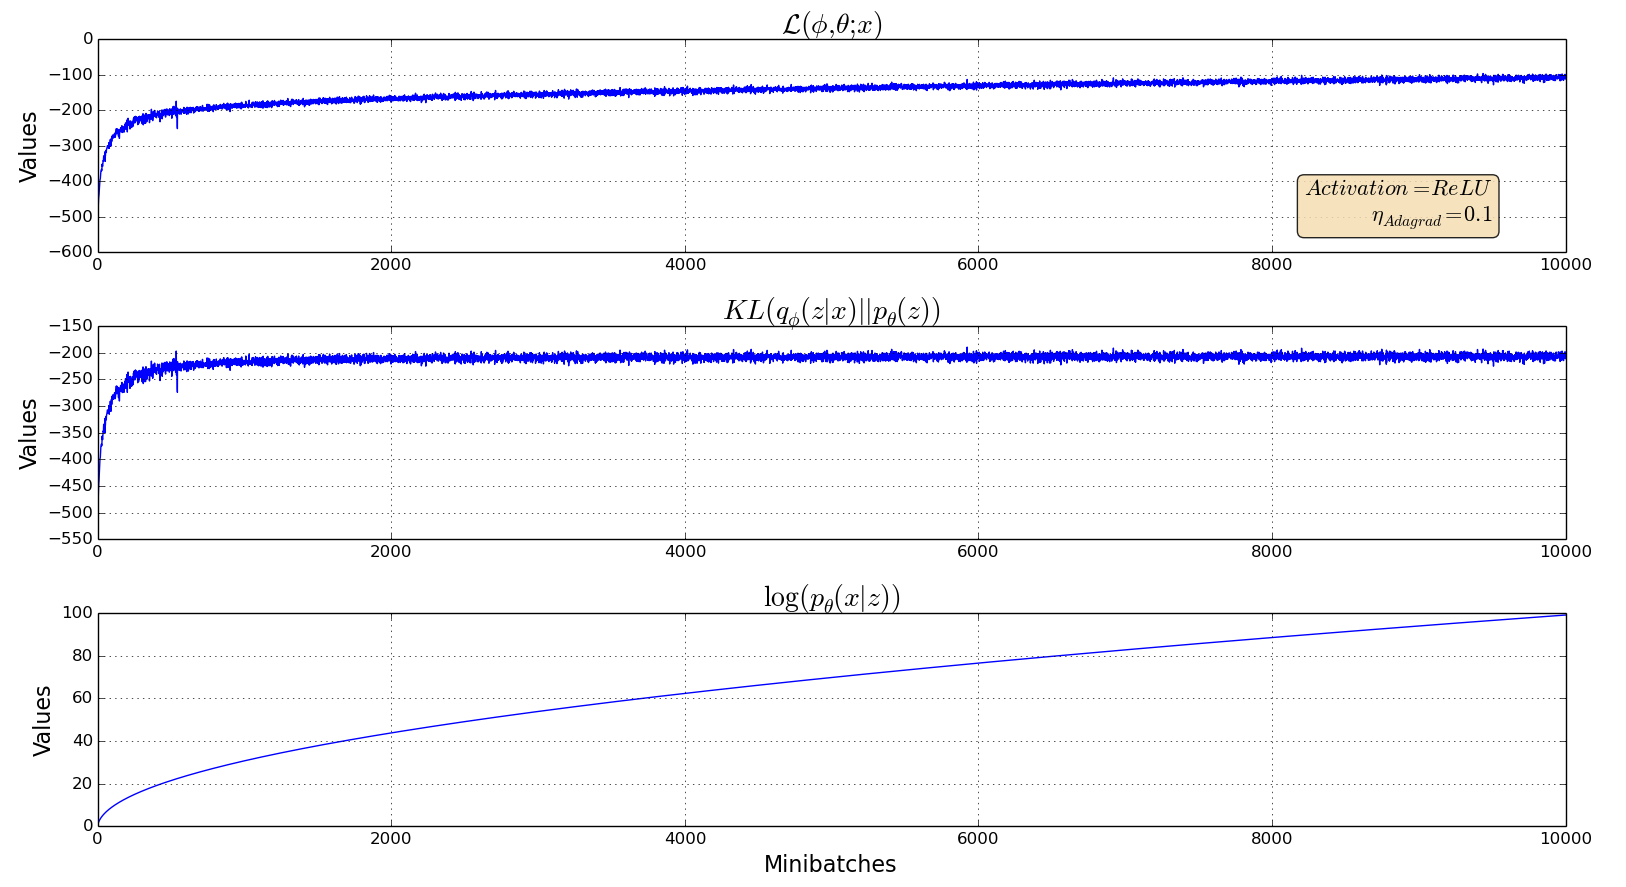
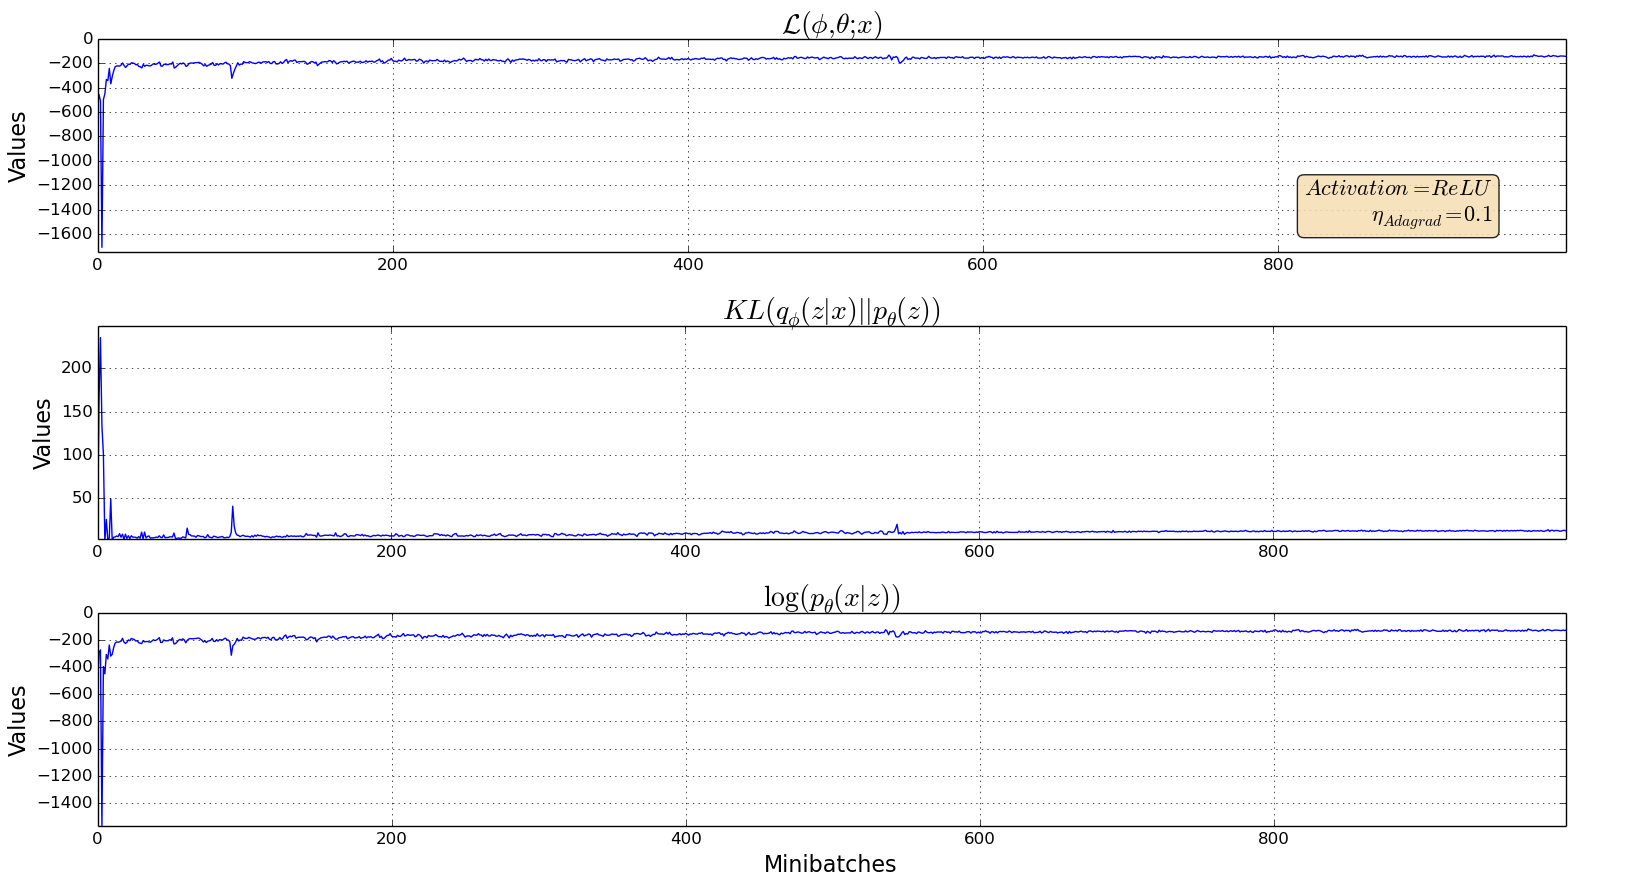
VAE v1.0 works + cleaner parameterization via configs

diff --git a/vae.py b/vae.py
@@ -8,23 +8,19 @@ __author__ = "shraman-rc"
 import tensorflow as tf
 import numpy as np
 import click as cl
+import yaml
 
 from nets import BernoulliMLP, GaussianMLP
 import likelihoods as lh
 import vis
 
-MNIST_FLAT_DIM = 784    # Flattened dimension of MNIST images, 'x'
-HIDDEN_LAYER_ENC = 500
-HIDDEN_LAYER_DEC = 200
+CONFIG = 'config/nn_config.yaml'
 
-
-# Experimental Parameters
-M = 100         # minibatch size
-L = 1           # MCE samples
-J = 10          # Dimensionality of latent space, 'z'
-T = 5000        # Training iterations
-ADG_RATE = 0.1 # Adagrad global learning rate (chosen from
-                #   {0.01,0.02,0.1} -- cf. [1]: Section 5)
+try:
+    config = yaml.load(file(CONFIG, 'r'))
+    print config
+except yaml.YAMLError, exc:
+    cl.secho("Error in configuration file: {}".format(exc), fg='red')
 
 # Inputs - mini-batches of (flattened) images
 x_batch = tf.placeholder(tf.float32, shape=[M, MNIST_FLAT_DIM])
@@ -37,57 +33,16 @@ log_var_q = encoder.out_params.log_var
 var_q = tf.exp(log_var_q)
 sigma_q = tf.sqrt(var_q)
 # Latent space samples w/ reparameterization (z = g(ep,x); ep ~ p(ep))
-#   This outsources randomness to auxiliary r.v. (see [1]: Sec 2.4)
+#   This outsources uncertainty to auxiliary r.v. (see [1]: Sec 2.4)
 #   For a Gaussian 'q' we have: g(ep,x) = mu + sigma*ep, and p(ep) = N(0,I)
 # Note: Element-wise univariate Gaussian sampling <=> multivariate Gaussian sampling
 # TODO: Introduce L later here
 # TODO: Is TF resampling ep everytime?
+tf.set_random_seed(0)
 ep = tf.random_normal([M, J], mean=0, stddev=1)
 z_batch = mu_q + sigma_q*ep # one latent per datapoint (MxJ)
 
 decoder = BernoulliMLP(z_batch, [HIDDEN_LAYER_DEC], MNIST_FLAT_DIM)
-
-#
-## Weights
-#W_hidden_e = tf.Variable(tf.zeros([MNIST_FLAT_DIM, HIDDEN_LAYER_ENC]))
-#W_mu_q = tf.Variable(tf.zeros([HIDDEN_LAYER_ENC, J]))
-#W_log_sigma_q = tf.Variable(tf.zeros([HIDDEN_LAYER_ENC, J]))
-#
-## Biases
-#b_hidden_e = tf.Variable(tf.zeros([HIDDEN_LAYER_ENC]))
-#b_mu_q = tf.Variable(tf.zeros([J]))
-#b_log_sigma_q = tf.Variable(tf.zeros([J]))
-#
-## Activations/Outputs
-#h_e = tf.tanh(  # TODO: try ReLU instead of tanh?
-#        tf.matmul(x_batch, W_hidden_e) + b_hidden_e)
-#mu_q = tf.matmul(h_e, W_mu_q) + b_mu_q
-#log_sigma_sq_q = tf.matmul(h_e, W_log_sigma_q) + b_log_sigma_q)
-#    # TODO: Why do we use log variance? Do we expect
-#    # extremely high/low values? Does it help with
-#    # vanishing weights phenomenon?
-
-
-# Decoder construction (Bernoulli, for MNIST)
-
-## Weights
-#W_hidden_d = tf.Variable(tf.zeros([J, HIDDEN_LAYER_DEC]))
-#W_mu_p = tf.Variable(tf.zeros([HIDDEN_LAYER_DEC, MNIST_FLAT_DIM]))
-#W_log_sigma_p = tf.Variable(tf.zeros([HIDDEN_LAYER_DEC, MNIST_FLAT_DIM]))
-#
-## Biases
-#b_hidden_d = tf.Variable(tf.zeros([HIDDEN_LAYER_DEC]))
-#b_mu_p = tf.Variable(tf.zeros([MNIST_FLAT_DIM]))
-#b_log_sigma_p = tf.Variable(tf.zeros([MNIST_FLAT_DIM]))
-#
-## Activations/Outputs
-#h_d = tf.tanh(  # TODO: try ReLU instead of tanh?
-#        tf.matmul(z, W_hidden_d) + b_hidden_d)
-#mu_p = tf.matmul(h_d, W_mu_p) + b_mu_p
-#log_sigma_sq_p = tf.matmul(h_d, W_log_sigma_p) + b_log_sigma_p)
-#    # TODO: Why do we use log variance? Do we expect
-#    # extremely high/low values? Does it help with
-#    # vanishing weights phenomenon?
 
 # The (negative) KL divergence between the variational approx. and the *prior*
 #   p_theta(z) acts as a regularizing term so that the latent distribution
@@ -113,6 +68,7 @@ ELBO_estimate = tf.reduce_mean(KL_regularizer + reconstr_err) # Mean val over mi
 # Notice that we are minimizing the negative (i.e. maximizing) the variational
 #   lower bound
 train_op = tf.train.AdagradOptimizer(ADG_RATE).minimize(-ELBO_estimate)
+# train_op = tf.train.AdamOptimizer(ADAM_RATE).minimize(-ELBO_estimate)
 
 # Train on MNIST
 from tensorflow.examples.tutorials.mnist import input_data
@@ -123,25 +79,24 @@ LLs = np.zeros(T)
 
 with tf.Session() as sess:
     sess.run(tf.initialize_all_variables())
-    ELBO, neg_KL, ll = 0,0,np.NINF
     # Train TODO: Move into MLP class
     iters = xrange(T)
     for t in iters:
         cl.secho('Minibatch {}'.format(t), fg='green', bold=False)
         batch = mnist.train.next_batch(M)
-        _, ELBO, ll, neg_KL = sess.run(
-            [train_op, ELBO_estimate, reconstr_err, KL_regularizer],
+        _, ELBO, ll, neg_KL, mu, log_var, p = sess.run(
+            [train_op, ELBO_estimate, reconstr_err, KL_regularizer, mu_q, log_var_q, decoder.out_params.p],
             feed_dict={x_batch: batch[0]})
-        ELBO, neg_KL, ll = np.mean(ELBO), np.mean(neg_KL), np.mean(ll)
-        ELBOs[t] = ELBO; KLs[t] = -neg_KL; LLs[t] = ll; opts[t] = opt
-        cl.secho('ELBO (estimate): {}\nKL Div (prior): {}\nLikelihood: {}'
-            .format(ELBO, -neg_KL, ll), fg='cyan')
+        ELBO, neg_KL, ll, mu, log_var, p = np.mean(ELBO), np.mean(neg_KL), np.mean(ll), np.mean(mu,0), np.mean(log_var,0), np.mean(p,0)
+        ELBOs[t] = ELBO; KLs[t] = -neg_KL; LLs[t] = ll
+        cl.secho('ELBO (estimate): {}\nKL Div (prior): {}\nLikelihood: {}\nMu: {}\nLog var:{}\np: {}'
+            .format(ELBO, -neg_KL, ll, mu, log_var, len(p)), fg='cyan')
 
     # Tests
     titles = ["$\mathcal{L}(\phi,\\theta;x)$",
               "$KL(q_{\phi}(z|x)||p_{\\theta}(z))$",
               "$\log(p_{\\theta}(x|z))$"]
-    params = {"\eta_{Adagrad}":ADG_RATE, "Activation":"ReLU"}
+    params = {"$\eta_{Adagrad}$":ADG_RATE, "$Activation$":"ReLU", "$Batch$ $Size$":M, "$MCE$ $Samples$":L, "$Latent$ $Dim$":J}
     vis.basic_multiplot([iters]*3,[[ELBOs], [KLs], [LLs]], titles, show_legend=False, params=params)
     
 

diff --git a/nets.py b/nets.py
@@ -16,6 +16,11 @@ DEFAULT_LATENT_DIM = 10
 BernoulliParam = namedtuple('BernoulliParam', ['p'])
 GaussianParam = namedtuple('GaussianParam', ['mu', 'log_var'])
 
+initialize = tfh.xavier_init
+#initialize = tf.zeros
+#activate = tf.nn.softplus
+#activate = tf.tanh
+activate = tf.nn.relu
 
 class MLP(object):
 
@@ -24,25 +29,34 @@ class MLP(object):
         that parameterize certain distributions
     '''
 
-    def __init__(self, input_batch, layer_sizes, dim):
+    def __init__(self, input_batch, layer_sizes, latent_dim, fn_activate=tf.nn.relu,
+                    fn_init_w=tfh.xavier_init, fn_init_b=tf.zeros):
         '''
         Params:
             - input_batch: The input tensor to the MLP
                 - NOTE: This should be a 'tf.placeholder'
             - layer_sizes: The number of weights in each hidden layer
-            - dim: dimension of the resulting probability distribution
+            - latent_dim: dimension of the resulting probability distribution
+            - fn_activate: function to use for perceptron activation
+            - fn_init_w: function to use for weight initialization
+            - fn_init_b: function to use for bias initialization
         '''
         self.batch_size, self.input_dim = tfh.shape(input_batch)
         self.input_batch = input_batch
         self.layer_sizes = layer_sizes
-        self.out_dim = dim
+        self.out_dim = latent_dim
+        self.activate, self.w_init, self.b_init = fn_activate, fn_init_w, fn_init_b
         # Generate hidden layer vars
-        self.weights = [tf.Variable(tf.zeros([self.input_dim, layer_sizes[0]]))]
-        self.biases = [tf.Variable(tf.zeros([layer_sizes[0]]))]
-        for in_dim,out_dim in zip(layer_sizes, layer_sizes[1:]):
-            # TODO: Use tf.contrib.layers.xavier_initializer(...)
-            self.weights.append(tf.Variable(tf.zeros([in_dim, out_dim])))
-            self.biases.append(tf.Variable(tf.zeros([out_dim])))
+        self.weights = [tf.Variable(
+                            self.w_init([self.input_dim, layer_sizes[0]])
+                        )]
+        self.biases = [tf.Variable(
+                            self.b_init([layer_sizes[0]])
+                      )]
+        #for in_dim,out_dim in zip(layer_sizes, layer_sizes[1:]):
+        #    # TODO: Use tf.contrib.layers.xavier_initializer(...)
+        #    self.weights.append(tf.Variable(initialize([in_dim, out_dim])))
+        #    self.biases.append(tf.Variable(tf.zeros([out_dim])))
 
         # Generate output vars (parameters of a distribution)
         self.out_params = self._gen_params()
@@ -63,12 +77,12 @@ class BernoulliMLP(MLP):
         hidden_weights, hidden_bias, hidden_size = \
             self.weights[0], self.biases[0], self.layer_sizes[0]
         self.bias_out = tf.Variable(tf.zeros([self.out_dim]))
-        self.weights_out = tf.Variable(tf.zeros([hidden_size, self.out_dim]))
+        self.weights_out = tf.Variable(initialize([hidden_size, self.out_dim]))
 
         # TODO: Tru ReLU instead of tanh
-        p = tf.sigmoid(
+        p = tf.nn.sigmoid(
             tf.matmul(
-                tf.nn.relu(tf.matmul(self.input_batch, hidden_weights) + hidden_bias),
+                activate(tf.matmul(self.input_batch, hidden_weights) + hidden_bias),
                 self.weights_out)
             + self.bias_out)
 
@@ -93,12 +107,12 @@ class GaussianMLP(MLP):
         hidden_weights, hidden_bias, hidden_size = \
             self.weights[0], self.biases[0], self.layer_sizes[0]
         self.bias_mu = tf.Variable(tf.zeros([self.out_dim]))
-        self.weights_mu = tf.Variable(tf.zeros([hidden_size, self.out_dim]))
+        self.weights_mu = tf.Variable(initialize([hidden_size, self.out_dim]))
         self.bias_logvar = tf.Variable(tf.zeros([self.out_dim]))
-        self.weights_logvar = tf.Variable(tf.zeros([hidden_size, self.out_dim]))
+        self.weights_logvar = tf.Variable(initialize([hidden_size, self.out_dim]))
 
         # TODO: Tru ReLU instead of tanh
-        h = tf.nn.relu(
+        h = activate(
             tf.matmul(self.input_batch, hidden_weights) + hidden_bias)
         mu = tf.matmul(h, self.weights_mu) + self.bias_mu
         log_var = tf.matmul(h, self.weights_logvar) + self.bias_logvar

diff --git a/vis.py b/vis.py
@@ -10,13 +10,15 @@ import matplotlib.widgets as widget
 import numpy as np
 
 def basic_multiplot(data_xs, data_ys, titles, labels=None, unit_x="Minibatches", show_legend=True, params={}):
-    """ Compare multiple plots (e.g. different error signals)
+    """ Easily plot multiple lines (e.g. different error signals)
 
         - data_xs: List of nd.arrays for x-axis for each plot
         - data_ys: List of lists of nd.arrays for y-axis for each plot
         - titles: List of strings, one for each plot
         - labels: List of lists of strings, one for each (x,y) pair
         - unit_x: Shared units for x-axis (e.g. epochs, minibatches)
+        - show_legend: true if should show label for each line
+        - params: Dictionary of hyperparameters, will appear in textbox
     """
     num_plots = len(data_xs)
     fig, axes = plt.subplots(num_plots)
@@ -27,6 +29,7 @@ def basic_multiplot(data_xs, data_ys, titles, labels=None, unit_x="Minibatches",
     plt.rc('axes', color_cycle=['g', 'm', 'k', 'c'])
     plt.tight_layout() # So axis no overlap with title
 
+    # Populate default labels if no legend to show
     if not show_legend:
         labels = [['']*len(arrs) for arrs in data_ys]
     else:
@@ -36,7 +39,7 @@ def basic_multiplot(data_xs, data_ys, titles, labels=None, unit_x="Minibatches",
     for i, x in enumerate(data_xs):
         for y, l in zip(data_ys[i], labels[i]):
             axes[i].plot(x, y, label=l)
-        axes[i].set_title(titles[i], fontsize=20)
+        axes[i].set_title(titles[i], fontsize=22)
         axes[i].set_ylabel("Values", fontsize=16)
         axes[i].grid()
         if show_legend:
@@ -51,15 +54,16 @@ def basic_multiplot(data_xs, data_ys, titles, labels=None, unit_x="Minibatches",
     axes[-1].set_xlabel("{}".format(unit_x), fontsize=16)
 
     # Parameter legend
-    paramtex = '\n'.join(['${}={}$'.format(k,v) for k,v in params.items()])
-    props = dict(boxstyle='round', facecolor='wheat', alpha=0.85)
-    axes[0].text(0.95, 0.10, paramtex, transform=axes[0].transAxes, fontsize=16,
-        verticalalignment='bottom', horizontalalignment='right', bbox=props)
+    paramtex = '\n'.join(['{}: ${}$'.format(k,v) for k,v in params.items()])
+    props = dict(boxstyle='round', facecolor='wheat', alpha=0.95)
+    plt.text(0.90, 0.1, paramtex, transform=axes[0].transAxes, fontsize=20,
+        verticalalignment='top', horizontalalignment='right', bbox=props)
 
     plt.show()
 
 
-def basic_multiline(data_x, data_ys, x_axis="Minibatch", y_axis="Error", title="Convergence Rate of ELBO"):
+def basic_multiline(data_x, data_ys, x_axis="Minibatch", y_axis="Error",
+                    title="Convergence Rate of ELBO"):
 
     for data_y in data_ys:
         line = plt.plot(data_x, data_y)[0]
@@ -67,7 +71,6 @@ def basic_multiline(data_x, data_ys, x_axis="Minibatch", y_axis="Error", title="
 
     plt.legend(loc="upper left", ncol=1, shadow=True, title="Errors", fancybox=True, prop={'size':25})
     plt.title(title, fontsize=30)
-    #plt.xscale("log")
     plt.xlabel(x_axis)
     plt.ylabel(y_axis)
     plt.xticks(fontsize=20)

diff --git a/likelihoods.py b/likelihoods.py
@@ -11,6 +11,8 @@ Notation:
     - 'll' stands for 'log likelihood'
 '''
 
+BARRIER = 1e-8 # Prevents evaluation of log(0) = nan
+
 def ll_bernoulli(data, rho):
     '''
     Params:
@@ -30,7 +32,7 @@ def ll_bernoulli(data, rho):
     # Taking the log of this (only the probabilities rho_i, not the
     # 0-1 coefficients x_i) we get our log-likelihood:
     #   \sum_i {x_i*log(rho_i) + (1-x_i)*log(1-rho_i)}
-    return tf.reduce_sum(data*tf.log(1e-10 + rho) + (1-data)*tf.log(1e-10 + 1-rho), 1)
+    return tf.reduce_sum(data*tf.log(BARRIER + rho) + (1-data)*tf.log(BARRIER + 1-rho), 1)
 
 def ll_gaussian(data, mu, log_var):
     '''

diff --git a/tf_helpers.py b/tf_helpers.py
@@ -4,6 +4,18 @@
 __author__ = "shraman-rc"
 
 import tensorflow as tf
+import numpy as np
+
+tf.set_random_seed(0)
+
+def xavier_init(dims, constant=1):
+    """ Xavier initialization of network weights"""
+    # https://stackoverflow.com/questions/33640581/how-to-do-xavier-initialization-on-tensorflow
+    low = -constant*np.sqrt(6.0/(dims[0] + dims[1]))
+    high = constant*np.sqrt(6.0/(dims[0] + dims[1]))
+    return tf.random_uniform((dims[0], dims[1]),
+                             minval=low, maxval=high,
+                             dtype=tf.float32)
 
 def shape(t):
     return t.get_shape().as_list()

diff --git a/README.md b/README.md
@@ -25,16 +25,30 @@ A variational autoencoder is an encoder-decoder pair of neural networks that are
 
 The vanilla VAE has lots of potential but there are a few shortcomings that make their convergence rate suboptimal with respect to the state-of-the-art. Here are improvements that have been applied (so far) to this repository:
 
-1. Initialization
-2. ADAM Optimizer
+### Statistical Optimizations
+1. Xavier Initialization
+2. Variational Dropout
+5. Reparameterization I: Reducing MCE Variance
+
+When performing Variational Inference, there are two approaches to finding the gradient of the lower bound (which is an intractable expectation over q(z)): (1) find an analytic (and computationally attractive) closed form of the gradient w.r.t. variational parameters, or (2) Monte-Carlo sampling 'z ~ q(z)' and using these z's to estimate the expectation of a function (in this case, a gradient). Unfortunately, (1) is oftentimes infeasible when we want to remove the constraint of conjugacy and (2) is troublesome when we naively perform expectation over the gradients of the random samples since this estimator exhibits high variance [citation].
+
+As a side note, high variance is especially troublesome in a neural network setting where we there are 2 sources of variance for the true gradient: one from using a minibatch of data points (rather than the entire batch) to compute a gradient estimate (i.e. SGD), and another from calculating the gradient of the minibatch using Monte-Carlo methods (note, the second source only occurs when the inputs to the loss function are also stochastic, e.g. an expectation as in the ELBO). This "doubly stochastic" nature where both the inputs to the function as well as the function itself is stochastic can lead to problems when either source exhibits high variance.
+
+To ameliorate this from a purely statistical point of view, we reformulate (2) not as a computing an expectation over gradients of single points, but rather a gradient on an expectation (of a function, g) over single points. The latter is only possible if we are able to (analytically) reparameterize 'z' into a random component (ep) and deterministic component (g) which includes the variables that the gradient is taken with respect to (ex: for a Gaussian, this would be mu/sigma) so that we can analytically compute the gradient w.r.t. phi of g(ep, phi) after summing samples of g(ep, phi). In other words, we must find a way to outsource the uncertainty on 'z' to an auxiliary variable (not dependent on phi) so we can still accurately leverage Monte Carlo sampling on the auxiliary variable (i.e. g(ep, phi), ep~p(ep) should give the same distribution as q(z;phi)) and also take a gradient of an MCE rather than an MCE of a gradient (thereby greatly reducing the variance).
+
+Having approached this from a purely statistical point of view, we can expect better performance with evidence *grounded in theory*, whereas SGD is still missing substantial theoretical justification.
+
+6. Reparameterization II: Reducing Variance at Scale
+7. Streaming VB
+
+### Numerical Optimizations
+1. ADAM Optimizer
+
 3. Batch Normalization
-4. Variational Dropout
-5. Reparameterization Trick II
-6. Streaming VB
-7. ReLU Activation
-8. TF-Related Optimizations
-9. Natural Gradients
-10. Posterior Predictive Checking
+8. ReLU Activation
+9. TF-Related Optimizations
+10. Natural Gradients
+11. Posterior Predictive Checking
     - Different error function than just log p(x|z) for specific models (inspired by Bayesian Checking for Topic Models)
 
 ## Future Work
